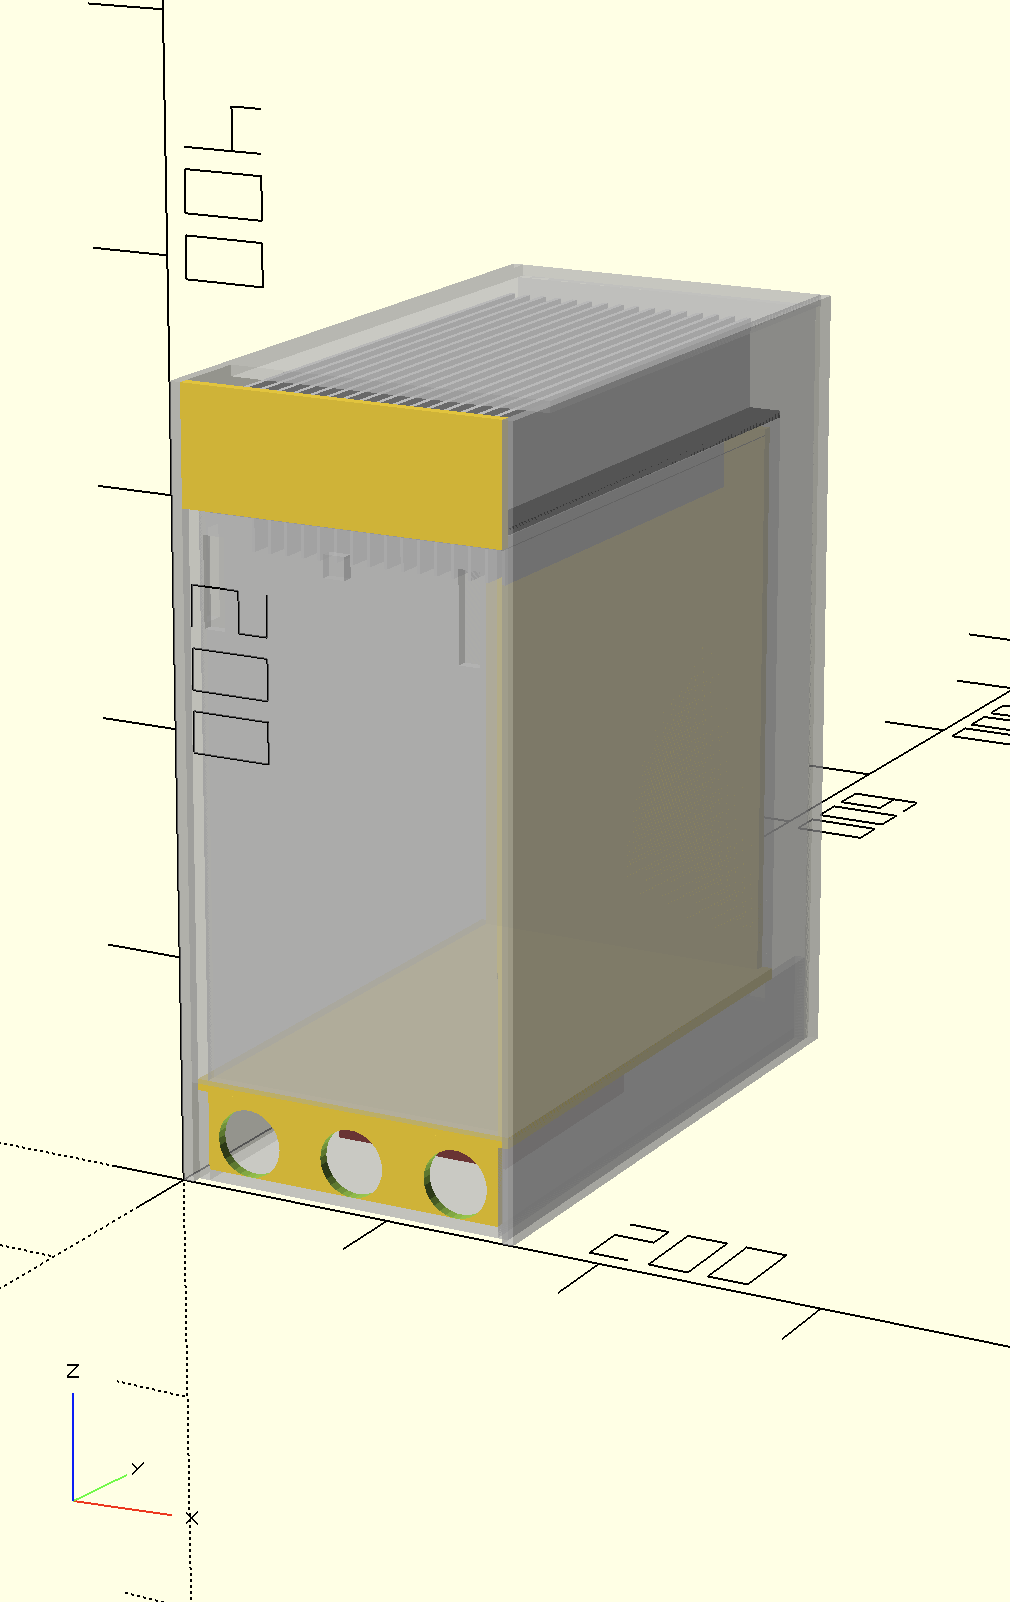
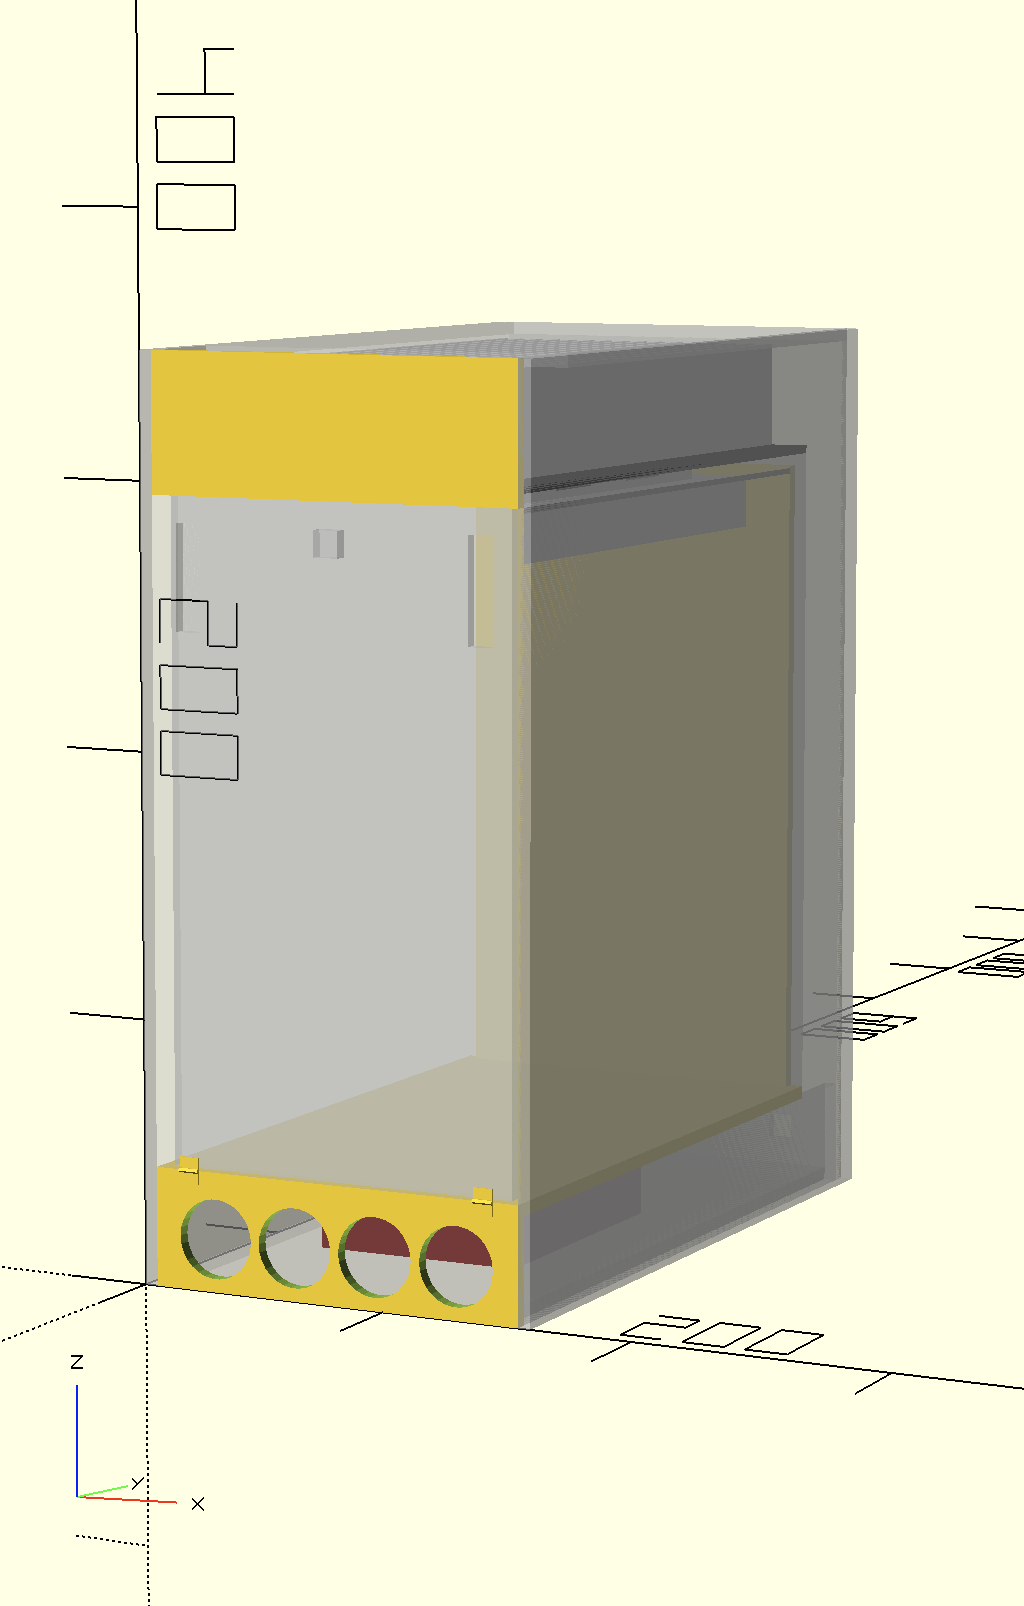
we need more fans

diff --git a/README.md b/README.md
@@ -4,20 +4,22 @@ OpenSCAD project
 
 ## materials
 
-six 5V 1A 30mm*30mm*5mm TECs and a 5V power supply.
-three 30mm fans at lower front.
-four 40mm*10mm*5mm magnets.
-two 96mm*150mm vapor chambers.
-see `main.scad` for more details.
+two 8mm * 10mm hinges.  
+six 5V 1A 30mm*30mm*5mm TECs.  
+a 5V power supply.  
+four 30mm fans at lower front.  
+four 40mm*10mm*5mm magnets.  
+two 96mm*150mm vapor chambers.  
+see `main.scad` for more details.  
 
 ## note
 
-it's hot.
-its huge.
-its power hungry.
-i'm not building it.
-there's no guarantee it would work.
-don't try it at home or anyone else's home.
+it's hot.  
+its huge.  
+its power hungry.  
+i'm not building it.  
+there's no guarantee it would work.  
+don't try it at home or anyone else's home.  
 
 ## Screenshots
 
